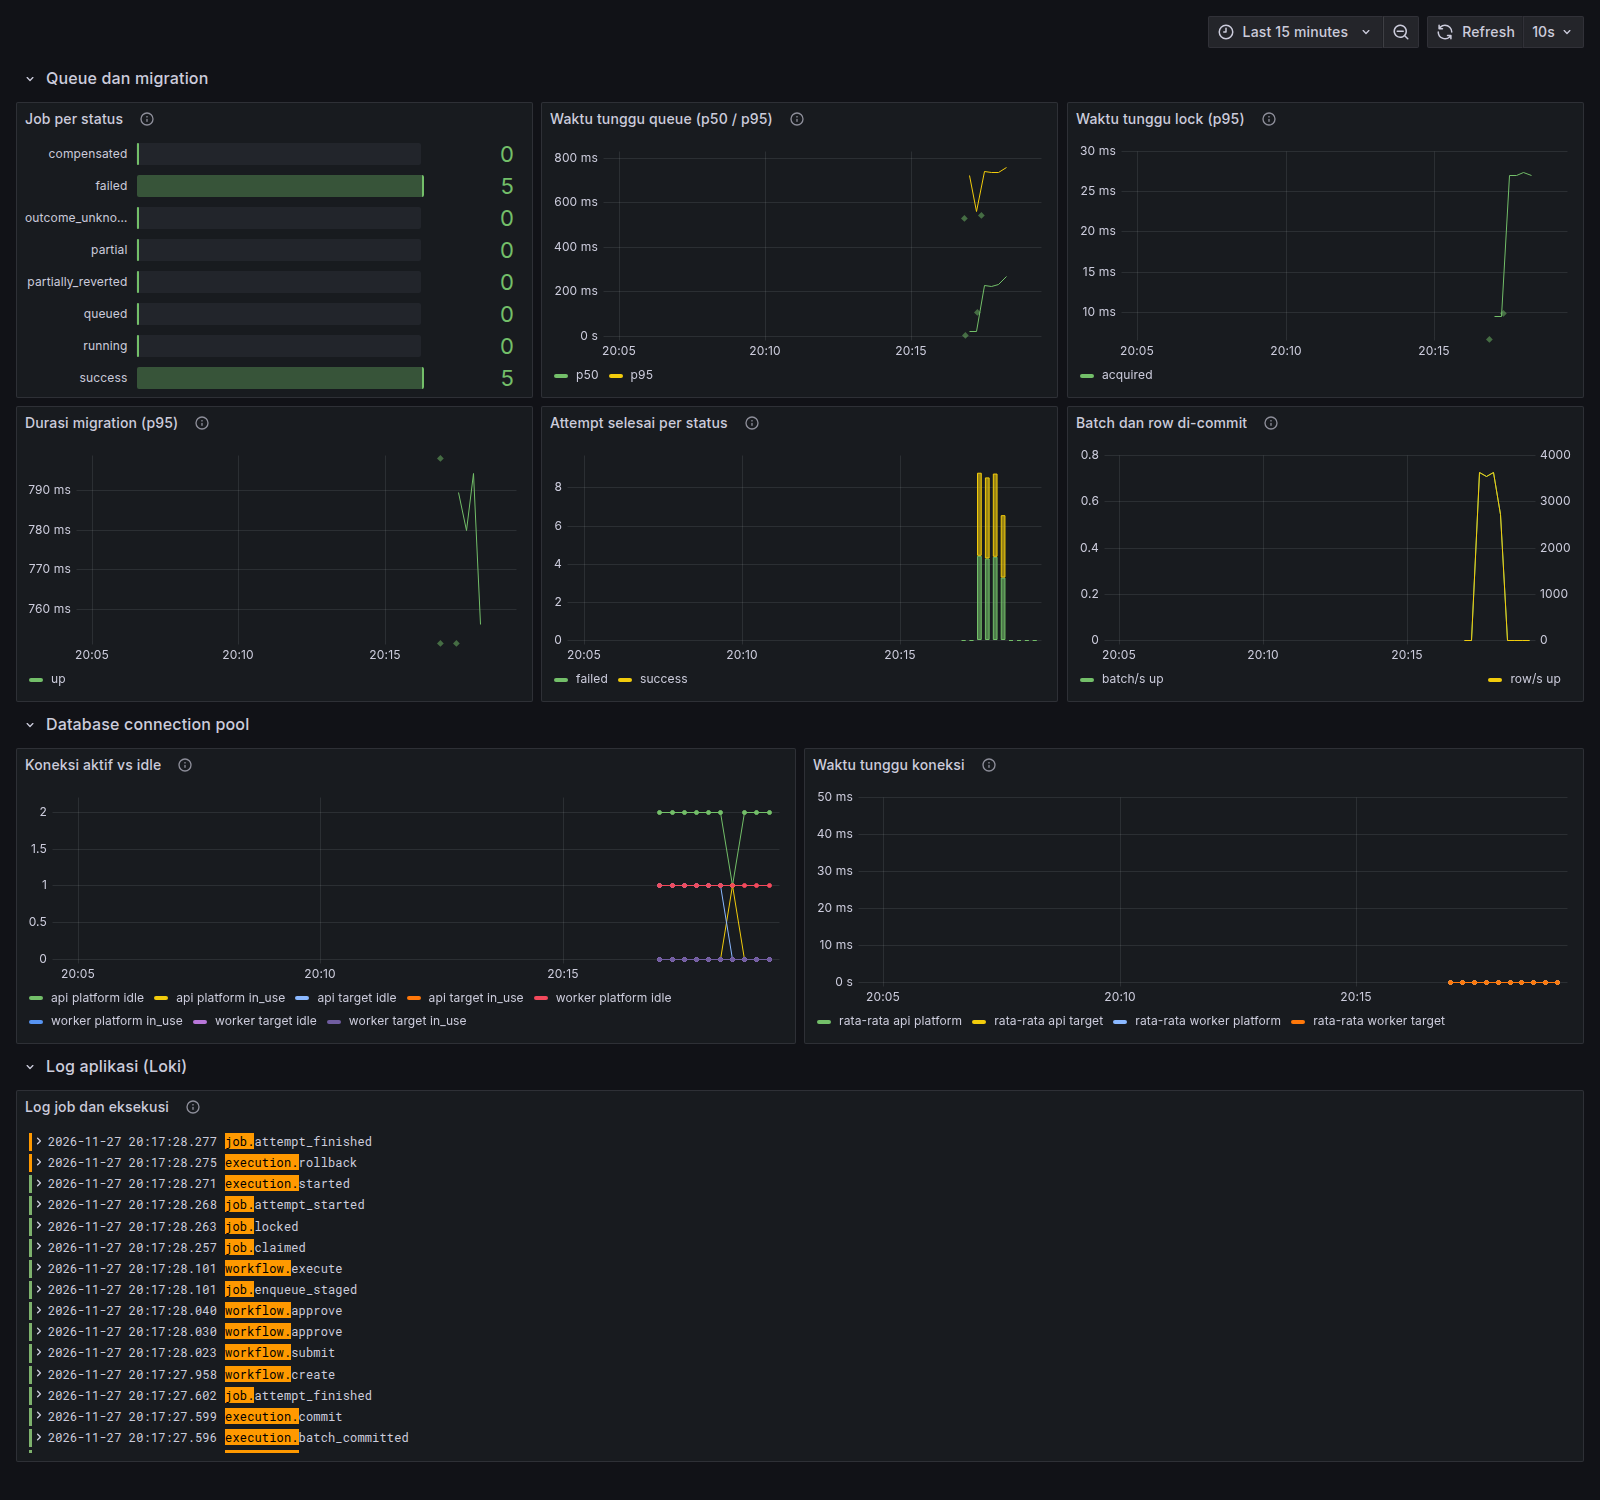
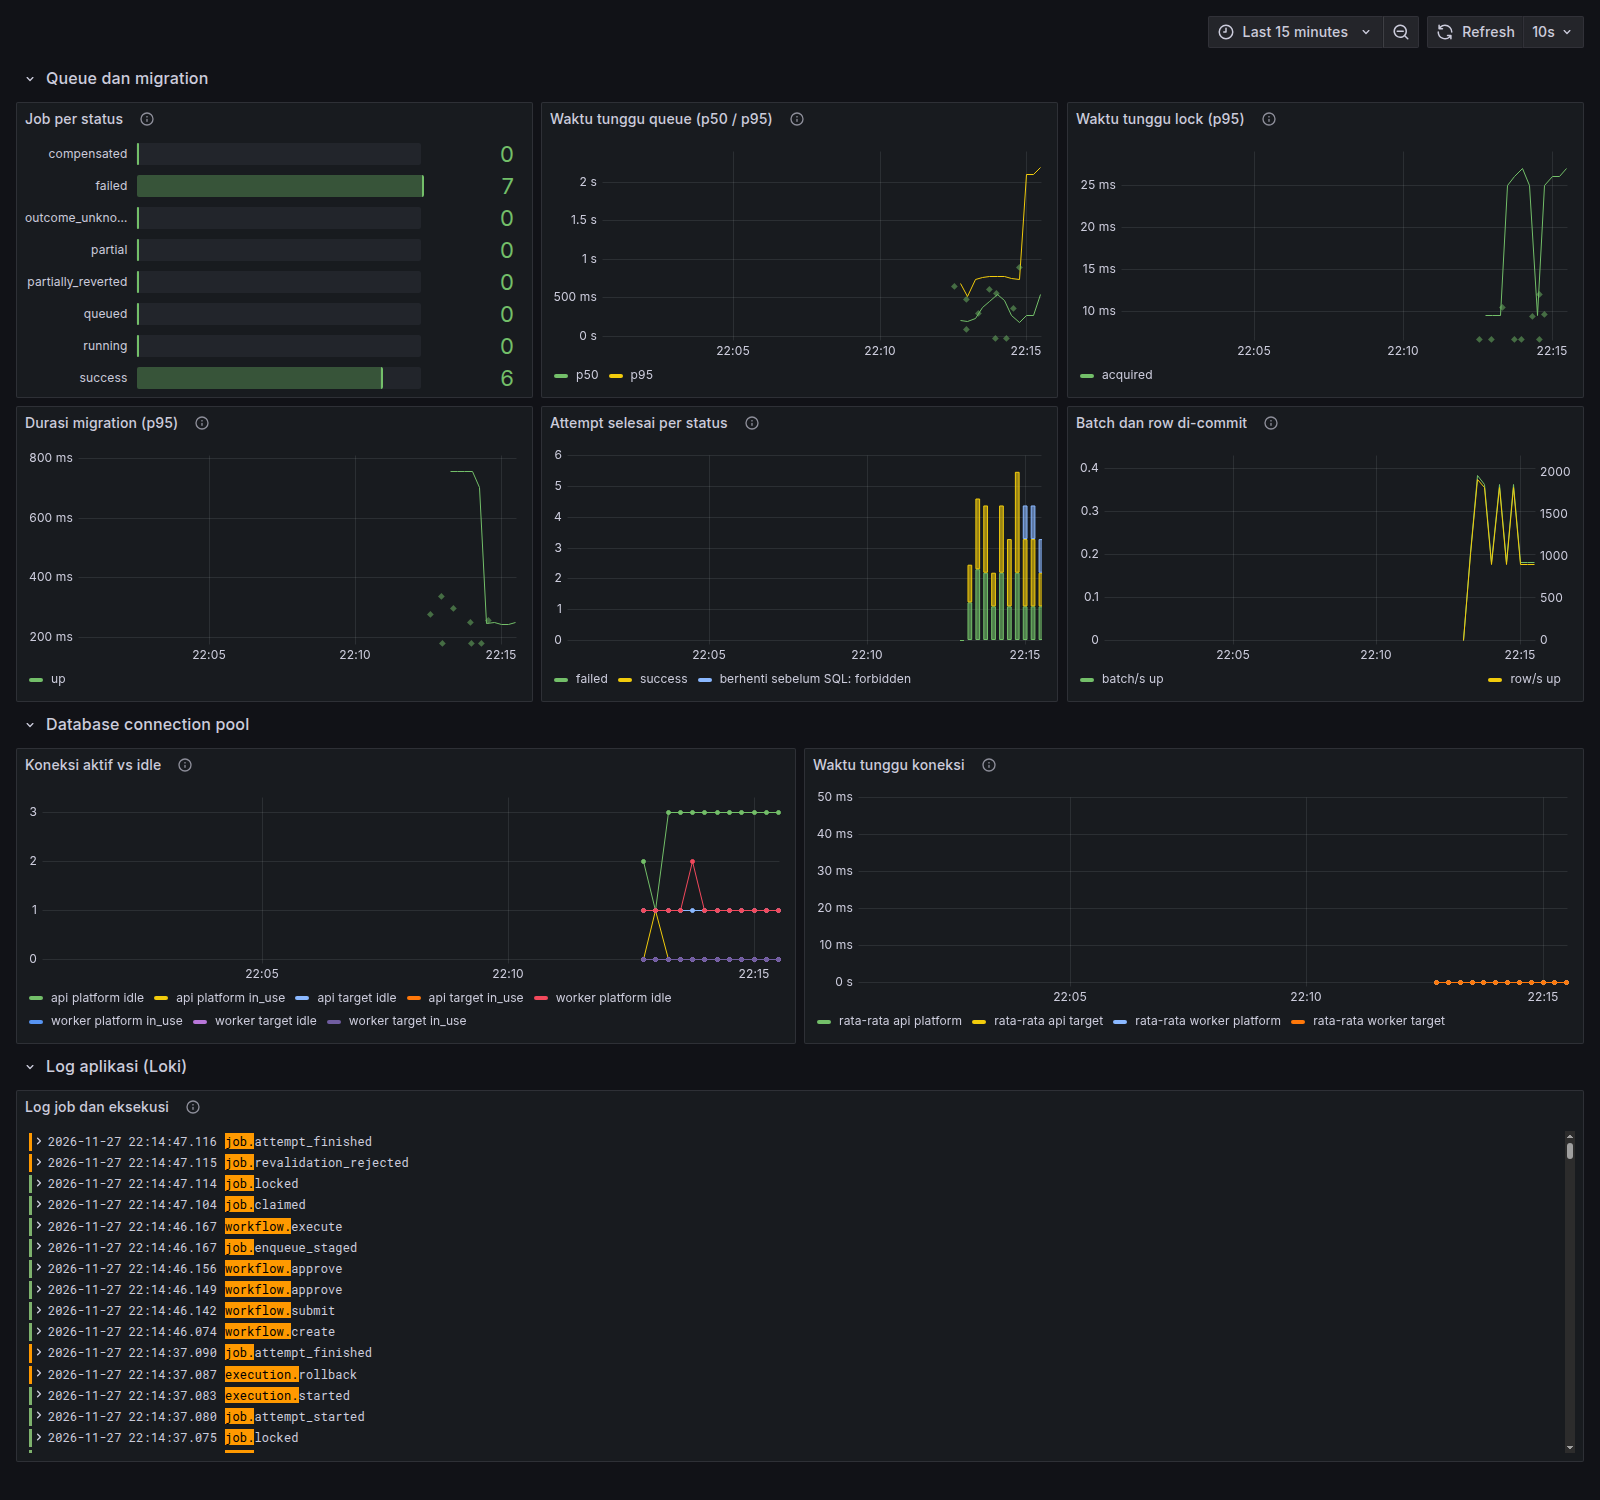
docs: perbarui screenshot dashboard grafana dengan metrik attempt yang baru

diff --git a/README.md b/README.md
@@ -557,7 +557,7 @@ Definisi queue wait di sini berbeda dari bagian k6. k6 mengukur `queued_at` samp
 
 Label `job` (`api`/`worker`) ditambahkan Prometheus dari konfigurasi scrape. `database_id` dipakai karena jumlah koneksi target terbatas dan dikelola admin.
 
-**Dashboard.** Pengujian 27 November 2026 di Fedora (Podman 5.8, PostgreSQL 18) menjalankan lima migration batch (50.000 row, batch 5.000) dan lima migration yang sengaja gagal (kolom tidak ada, SQLSTATE 42703) lewat API → approval dua leader → queue → worker.
+**Dashboard.** Pengujian 27 November 2026 di Fedora (Podman 5.8, PostgreSQL 18) menjalankan lima migration batch (50.000 row, batch 5.000) dan lima migration yang sengaja gagal (kolom tidak ada, SQLSTATE 42703) lewat API → approval dua leader → queue → worker. Di sela-selanya, akses edit grup dicabut tepat setelah execute pada tiga job. Dua job ditolak saat revalidasi dan tampil sebagai seri biru *berhenti sebelum SQL: forbidden*, bukan sebagai attempt (status job-nya tetap `failed`), sedangkan satu job sempat dieksekusi worker sebelum akses dicabut. Karena itu panel status menunjukkan 6 sukses dan 7 gagal.
 
 ![Dashboard Grafana](screenshots/observability/grafana-dashboard.png)
 
